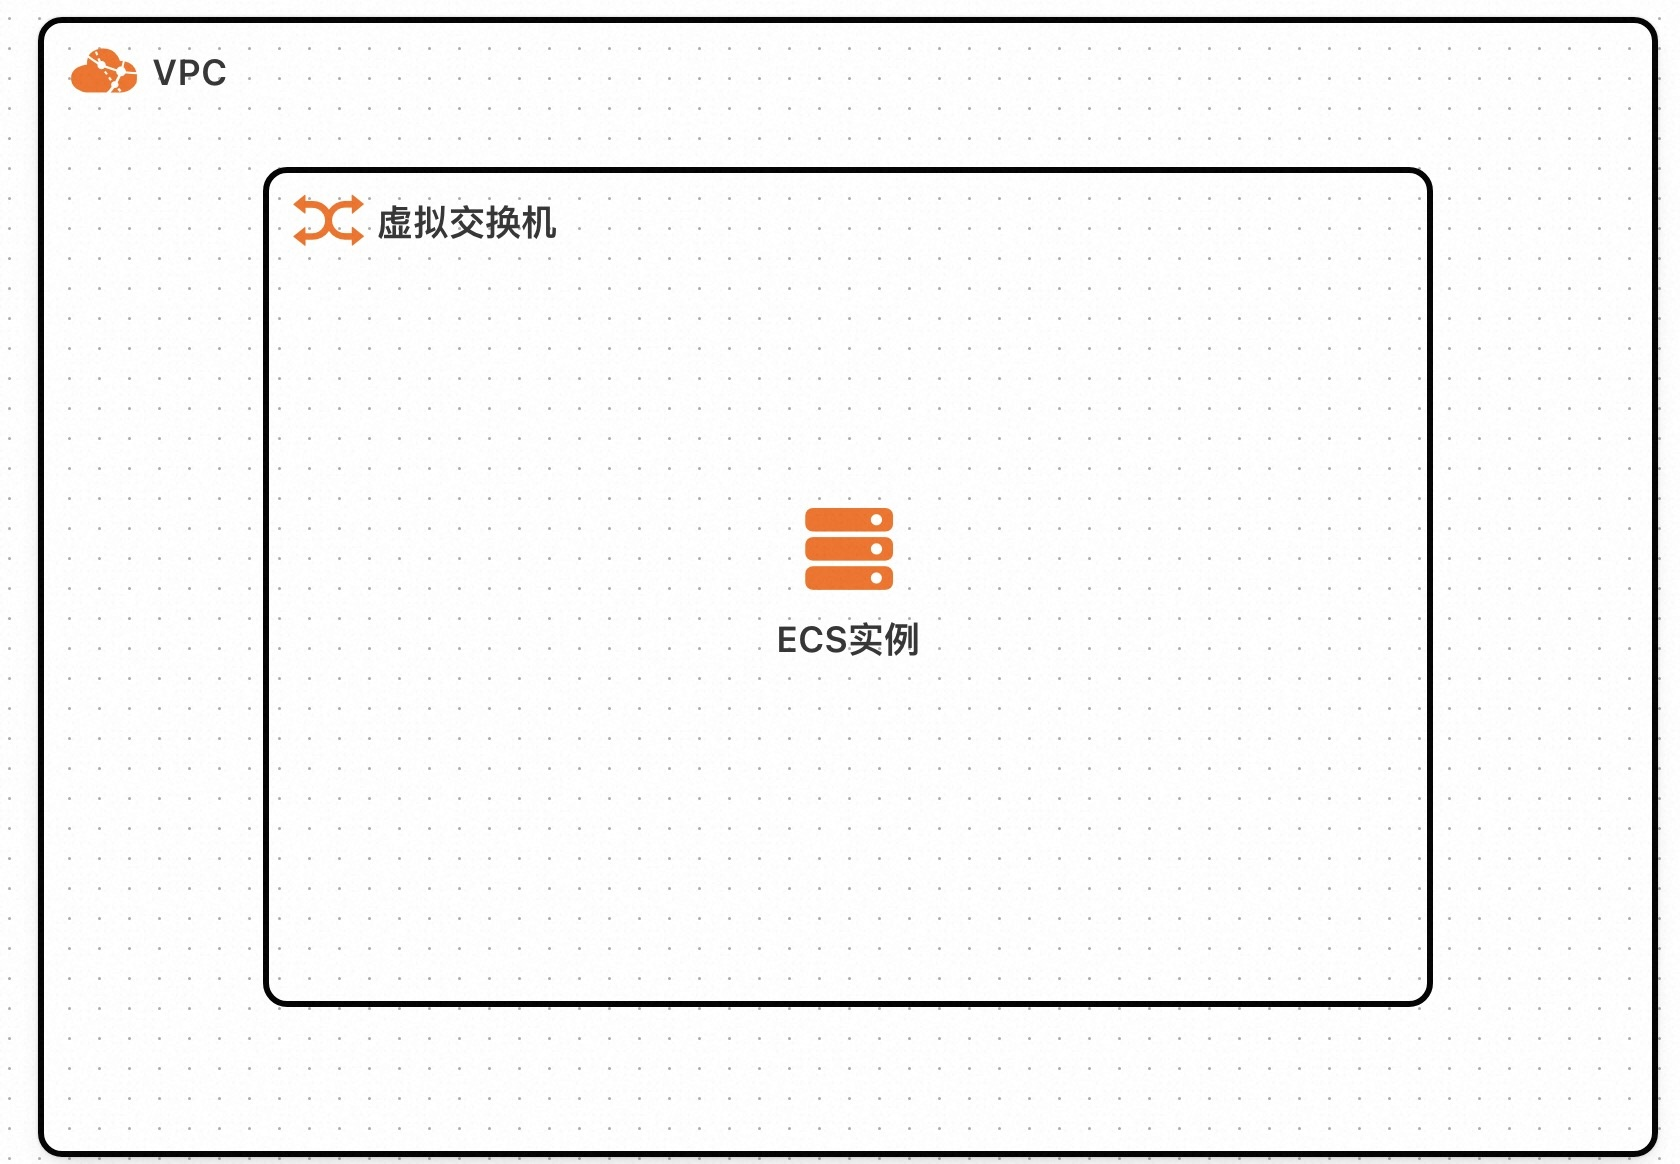
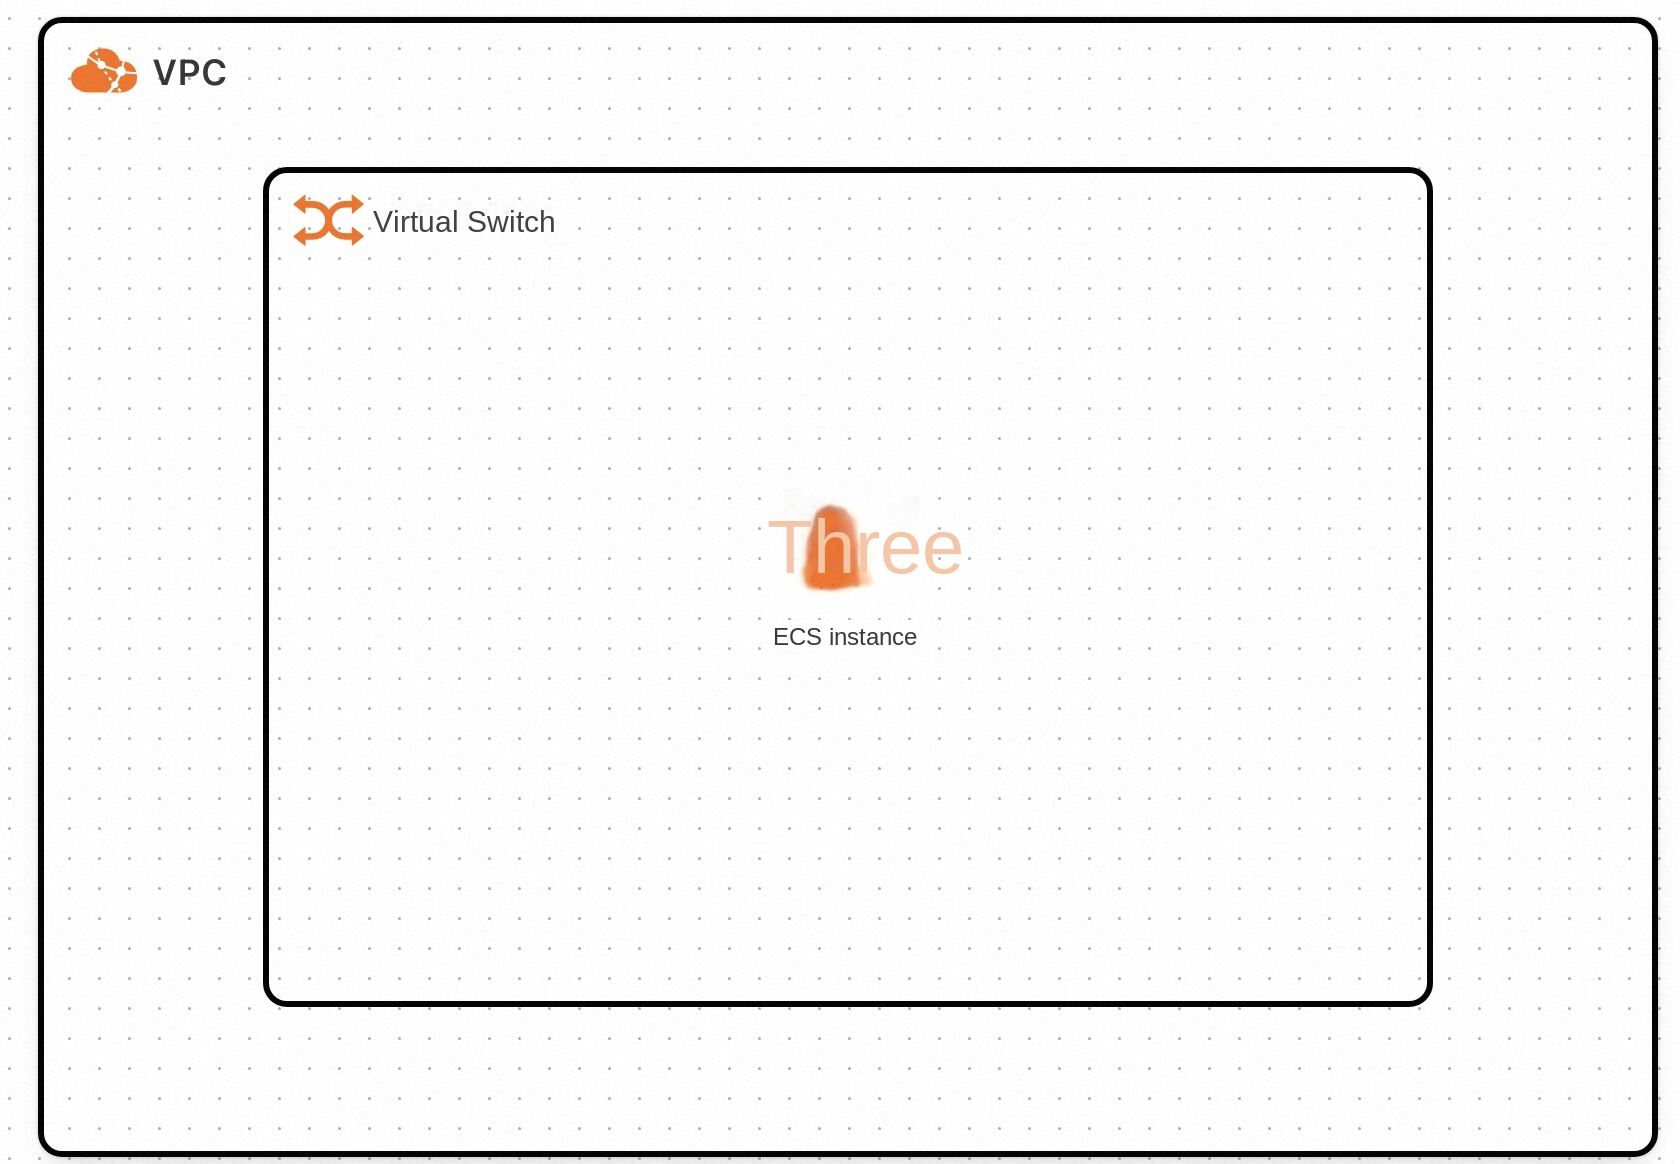
Auto-translate: docs/index.md -> docs/index-en.md
- Service: Bolt.diy社区版
- Translated document from Chinese to English
- Translated 11 images
- Updated image references in document

[Generated by AoneCI Translation Pipeline]
Generated at: 2025-08-06 11:33:54

Changed region(s): [[0.4643, 0.433, 0.5881, 0.5876], [0.2167, 0.1546, 0.3405, 0.2165]]

diff --git a/docs/index-en.md b/docs/index-en.md
@@ -28,13 +28,16 @@ Refined model call cost:
 When you open the 100-year-old for the first time, the platform will automatically issue you the exclusive free quota for new people of each model. For details, please see [100-year-old free quota](https://help.aliyun.com/zh/model-studio/new-free-quota?spm = 5176.24779694.console-# view-quota).
 
 
+## Deployment Architecture
+The deployment architecture adopts ECS (cloud server) stand-alone deployment
+![img_1.png](images-en/img_1.png)'(Deployment overview content)'
 
 ## Deployment process
 
 ### Deployment steps
 1. Visit the computing nest Bolt.diy Community Edition [Deployment Link](https://computenest.console.aliyun.com/user/cn-hangzhou/serviceInstanceCreate?ServiceId=service-21dc43d5daec42c4b6fc)
 Enter the deployment parameters as prompted, and configure the ECS instance type and password.
-
+![img_2.png](images-en/img_2.png)
 2. Configure the VPC and zone
 ![img_3.png](images-en/img_3.png)
 3. Configure the Bailian model service. Bolt.diy supports a variety of large models. If you want to use the Bailian model service, configure the Bailian model service API-KEY. Please refer to: [Get Refined API-KEY](https://developer.aliyun.com/article/1655158?spm = 5176.24779694.0.0.5 c4b4d22bk6NwY).
